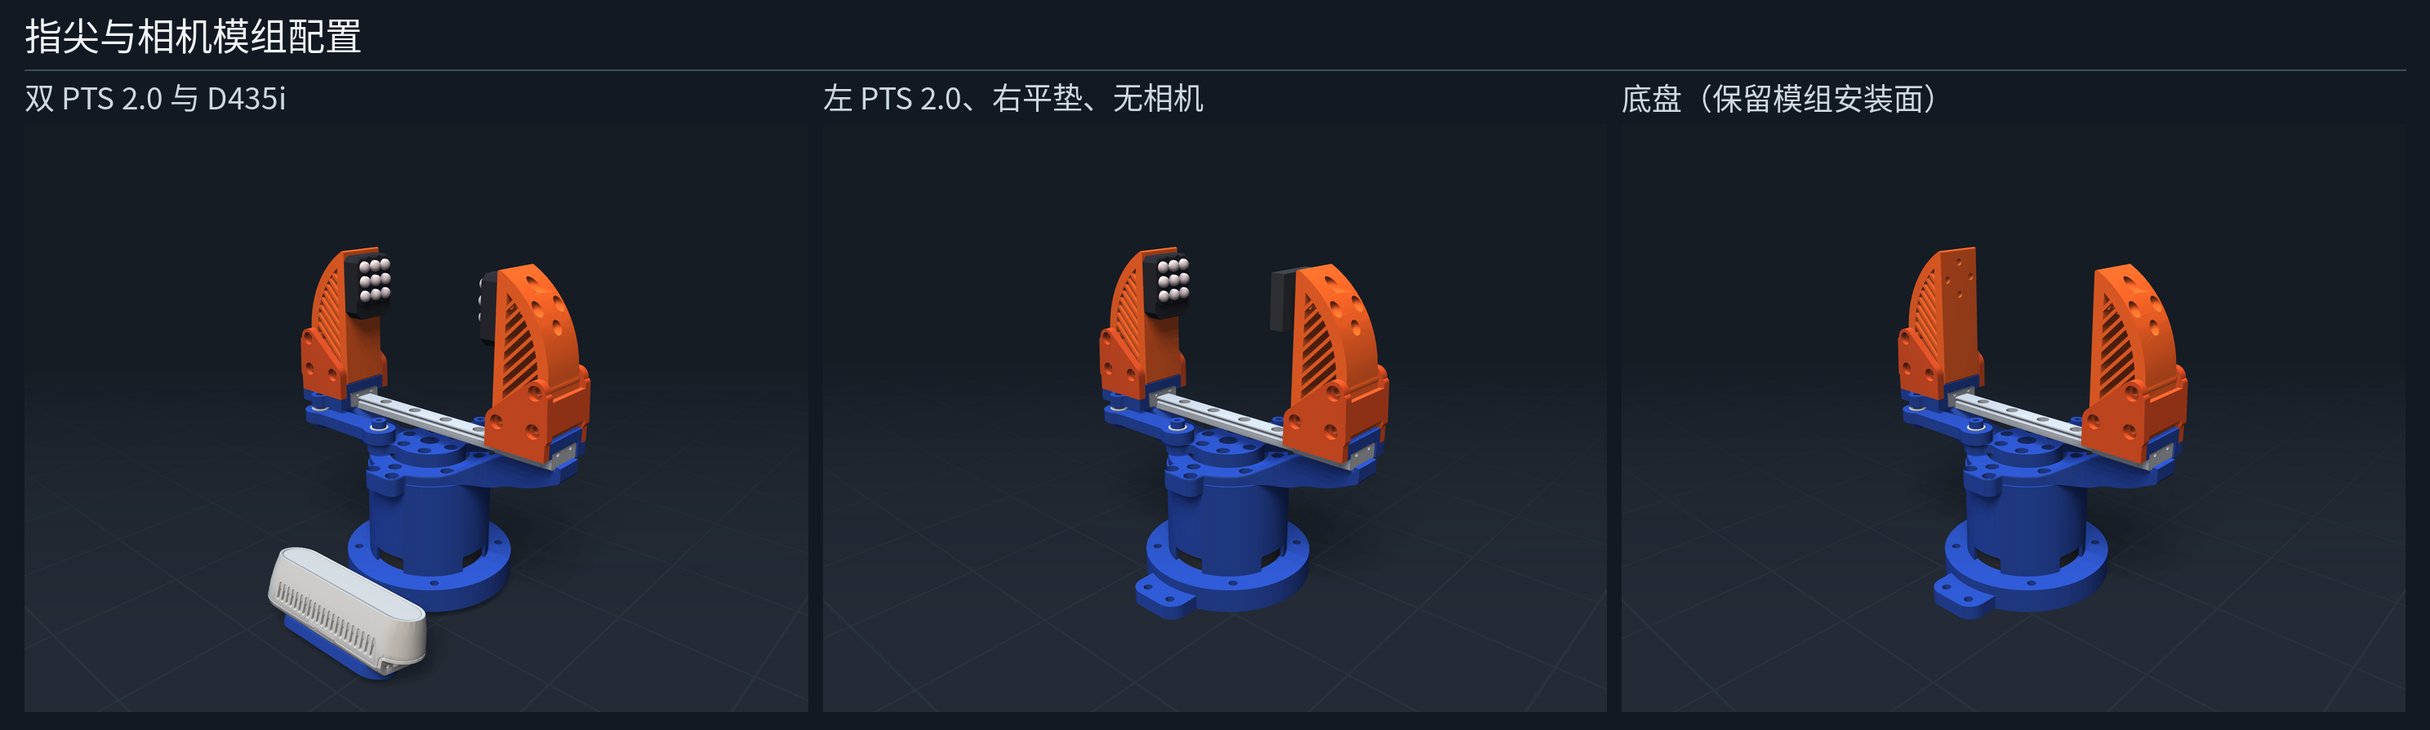
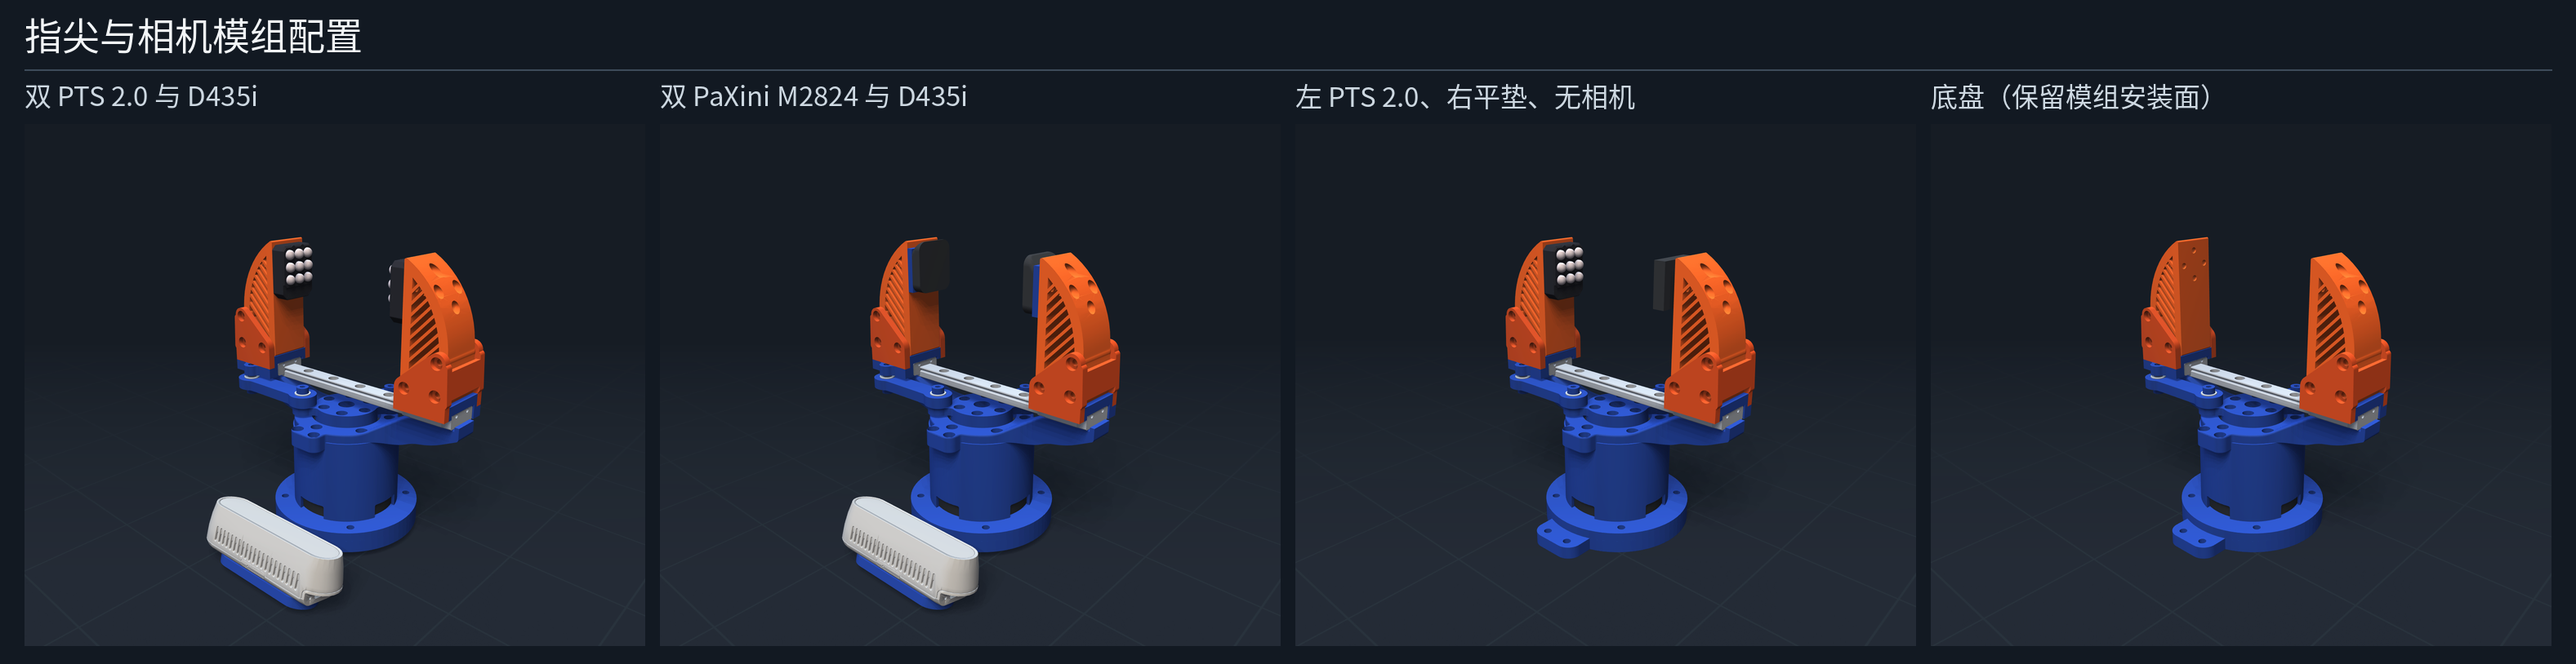
docs(images): add PaXini M2824 mounting, closure, and 135-taxel preview figures

diff --git a/tools/render_previews.py b/tools/render_previews.py
@@ -17,7 +17,11 @@ import numpy as np
 from _style import panel_font
 from PIL import Image, ImageDraw
 
-from adaptive_tactile_gripper_description import build_gripper_spec, get_joint_positions
+from adaptive_tactile_gripper_description import (
+    build_gripper_spec,
+    get_joint_positions,
+    get_stroke_limits,
+)
 
 OUT_DIR = Path(__file__).resolve().parents[1] / "docs" / "images"
 
@@ -128,12 +132,13 @@ def _render_view(
     camera_name: str | None = None,
     show_taxels: bool = False,
     show_sites: bool = False,
+    show_site_frames: bool = True,
     light_samples: int = 16,
 ) -> np.ndarray:
     """用给定视角和可视化分组渲染单帧 RGB 图像。"""
     model.vis.global_.offwidth = 2 * width
     model.vis.global_.offheight = 2 * height
-    if show_sites:
+    if show_sites and show_site_frames:
         model.vis.scale.framelength = 0.10
         model.vis.scale.framewidth = 0.011
     renderer = mujoco.Renderer(model, height=2 * height, width=2 * width)
@@ -145,7 +150,7 @@ def _render_view(
         opt.geomgroup[5] = show_taxels
         opt.sitegroup[3] = 1 if show_sites else 0
         opt.sitegroup[4] = 0
-        if show_sites:
+        if show_sites and show_site_frames:
             opt.frame = mujoco.mjtFrame.mjFRAME_SITE
 
         if camera_name is not None:
@@ -187,6 +192,7 @@ def _save_panel(
     out_path: Path,
     *,
     suptitle: str,
+    label_size: int = 37,
 ) -> None:
     """将多张渲染帧合成为带中文标题的对比图。"""
     margin, gutter = 30, 18
@@ -198,7 +204,7 @@ def _save_panel(
     )
     draw = ImageDraw.Draw(panel)
     title_font = panel_font(46)
-    label_font = panel_font(37)
+    label_font = panel_font(label_size)
     draw.text((margin, 22), suptitle, font=title_font, fill="#f2f5f7", anchor="lt")
     draw.line((margin, 85, panel.width - margin, 85), fill="#3d4b5a", width=2)
     for index, (array, title) in enumerate(zip(images, titles, strict=True)):
@@ -251,9 +257,10 @@ def render_overview_default() -> None:
 
 
 def render_modular_variants() -> None:
-    """渲染 3 种模块化配置对比图。"""
+    """渲染 4 种模块化配置对比图（含 PaXini M2824）。"""
     configs = [
         ("pts_2_0", "pts_2_0", True, "双 PTS 2.0 与 D435i"),
+        ("paxini_m2824", "paxini_m2824", True, "双 PaXini M2824 与 D435i"),
         ("pts_2_0", "flat_pad", False, "左 PTS 2.0、右平垫、无相机"),
         (None, None, False, "底盘（保留模组安装面）"),
     ]
@@ -266,7 +273,14 @@ def render_modular_variants() -> None:
         mujoco.mj_forward(m, d)
         imgs.append(
             _render_view(
-                m, d, lookat=[0.0, -0.01, 0.085], distance=0.34, azimuth=132.0, elevation=-20.0
+                m,
+                d,
+                width=760,
+                height=640,
+                lookat=[0.0, -0.01, 0.085],
+                distance=0.35,
+                azimuth=132.0,
+                elevation=-20.0,
             )
         )
         titles.append(title)
@@ -275,6 +289,7 @@ def render_modular_variants() -> None:
         titles,
         OUT_DIR / "modular_variants.png",
         suptitle="指尖与相机模组配置",
+        label_size=33,
     )
 
 
@@ -348,6 +363,119 @@ def render_tactile_collision_and_sites() -> None:
     )
 
 
+def render_paxini_m2824_mounting() -> None:
+    """渲染 PaXini M2824 安装特写、双侧零间隙闭合与 135 测点盒式碰撞示意。"""
+    spec = _prepare_spec(left_sensor="paxini_m2824", right_sensor="paxini_m2824", with_camera=False)
+    spec.light("fill").diffuse = [0.34, 0.38, 0.44]
+    m = spec.compile()
+    d = mujoco.MjData(m)
+    mujoco.mj_forward(m, d)
+
+    # 1. 全开状态指尖特写（展示 3.5 mm PLA-CF 转接垫块与斜倒角传感头）
+    img_mount = _render_view(
+        m,
+        d,
+        lookat=[0.0, 0.0, 0.145],
+        distance=0.145,
+        azimuth=128.0,
+        elevation=-16.0,
+    )
+
+    # 2. 双侧零间隙首次接触闭合位置
+    contact_q = float(get_stroke_limits("paxini_m2824", "paxini_m2824")["first_contact_q_rad"])
+    positions = get_joint_positions(contact_q)
+    for name, value in positions.items():
+        if name != "gripper_backlash":
+            d.joint(name).qpos[0] = value
+    mujoco.mj_forward(m, d)
+    img_closed = _render_view(
+        m,
+        d,
+        lookat=[0.0, 0.0, 0.144],
+        distance=0.115,
+        azimuth=90.0,
+        elevation=-10.0,
+    )
+
+    # 3. 左指盒式碰撞包络（隐藏传感器视觉网格避免共面 Z-fighting）与 135 测点分布
+    mujoco.mj_resetData(m, d)
+    mujoco.mj_forward(m, d)
+    for gid in range(m.ngeom):
+        gname = m.geom(gid).name
+        if gname == "left_pad_collision":
+            m.geom_group[gid] = 5
+            m.geom_rgba[gid] = [0.05, 0.85, 0.98, 0.45]
+        elif gname == "left_sensor_housing_collision":
+            m.geom_group[gid] = 5
+            m.geom_rgba[gid] = [0.95, 0.65, 0.18, 0.48]
+        elif m.geom_type[gid] == mujoco.mjtGeom.mjGEOM_MESH:
+            mesh_name = m.mesh(m.geom_dataid[gid]).name
+            if m.body(m.geom_bodyid[gid]).name == "left_sensor_body" and mesh_name.startswith(
+                "left_paxini_m2824"
+            ):
+                m.geom_group[gid] = 3
+    for sid in range(m.nsite):
+        sname = m.site(sid).name
+        if sname.startswith("left_taxel_"):
+            m.site_group[sid] = 3
+            m.site_size[sid] = [0.00058, 0.00058, 0.00058]
+            m.site_rgba[sid] = [0.22, 0.96, 0.48, 1.0]
+        elif sname == "left_pad_center":
+            m.site_group[sid] = 3
+            m.site_size[sid] = [0.0011, 0.0011, 0.0011]
+            m.site_rgba[sid] = [1.0, 0.28, 0.28, 1.0]
+        else:
+            m.site_group[sid] = 4
+
+    center = d.site("left_pad_center").xpos.copy()
+    center[2] -= 0.003
+    img_sites = Image.fromarray(
+        _render_view(
+            m,
+            d,
+            lookat=center.tolist(),
+            distance=0.068,
+            azimuth=144.0,
+            elevation=-18.0,
+            show_taxels=True,
+            show_sites=True,
+            show_site_frames=False,
+        )
+    )
+    draw = ImageDraw.Draw(img_sites)
+    legend_items = (
+        ("#22e2ff", "pad_collision"),
+        ("#f5a933", "housing_collision"),
+        ("#38f57a", "135 测点"),
+        ("#ff4c4c", "pad_center"),
+    )
+    lx = 24
+    legend_font = panel_font(26)
+    for color, text in legend_items:
+        draw.ellipse((lx, 26, lx + 16, 42), fill=color, outline="#17202a")
+        draw.text(
+            (lx + 24, 18),
+            text,
+            font=legend_font,
+            fill="#f2f5f7",
+            stroke_width=2,
+            stroke_fill="#17202a",
+        )
+        lx += int(draw.textlength(text, font=legend_font)) + 44
+
+    slide_mm = positions["left_finger_slide"] * 1000.0
+    _save_panel(
+        [img_mount, img_closed, np.asarray(img_sites)],
+        [
+            "指尖装配特写（3.5 mm 转接垫块）",
+            f"零间隙闭合（q = {contact_q:.2f} rad，单指 {slide_mm:.2f} mm）",
+            "盒式碰撞包络与 135 测点分布",
+        ],
+        OUT_DIR / "paxini_m2824_mounting.png",
+        suptitle="PaXini M2824 触觉模组安装与碰撞示意",
+    )
+
+
 def render_closure_sequence() -> None:
     """渲染闭环曲柄滑块在 0.00 / 0.75 / 1.45 rad 下的对称闭合序列。"""
     spec = _prepare_spec(left_sensor="pts_2_0", right_sensor="pts_2_0", with_camera=False)
@@ -382,8 +510,9 @@ def main() -> int:
     render_overview_default()
     render_modular_variants()
     render_tactile_collision_and_sites()
+    render_paxini_m2824_mounting()
     render_closure_sequence()
-    print(f"已生成 5 张预览图到 {OUT_DIR}")
+    print(f"已生成 6 张预览图到 {OUT_DIR}")
     return 0
 
 

diff --git a/README.md b/README.md
@@ -68,6 +68,10 @@ uv run atg-description render
 
 ![触觉碰撞球与 Site 坐标系](docs/images/tactile_collision_and_sites.png)
 
+### PaXini M2824 安装、零间隙闭合与 135 测点示意
+
+![PaXini M2824 安装与 135 测点碰撞示意](docs/images/paxini_m2824_mounting.png)
+
 ### 闭环曲柄滑块对称闭合序列
 
 ![闭环闭合序列](docs/images/closure_sequence.png)
